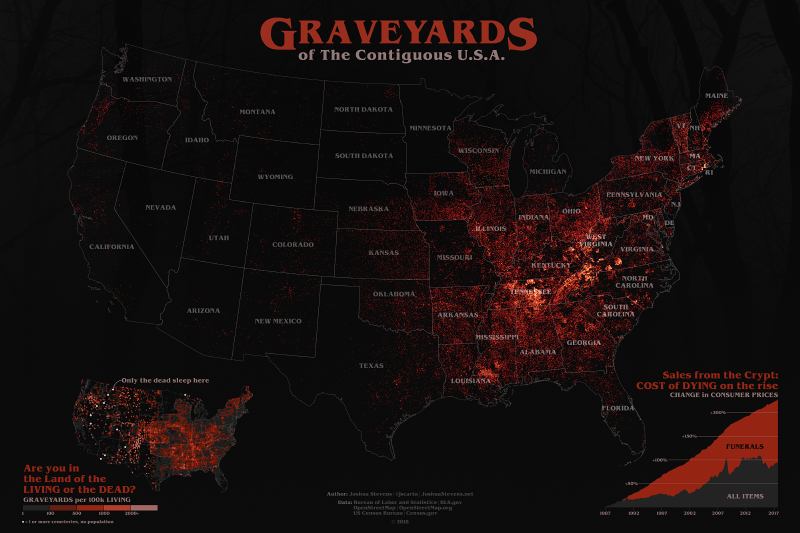
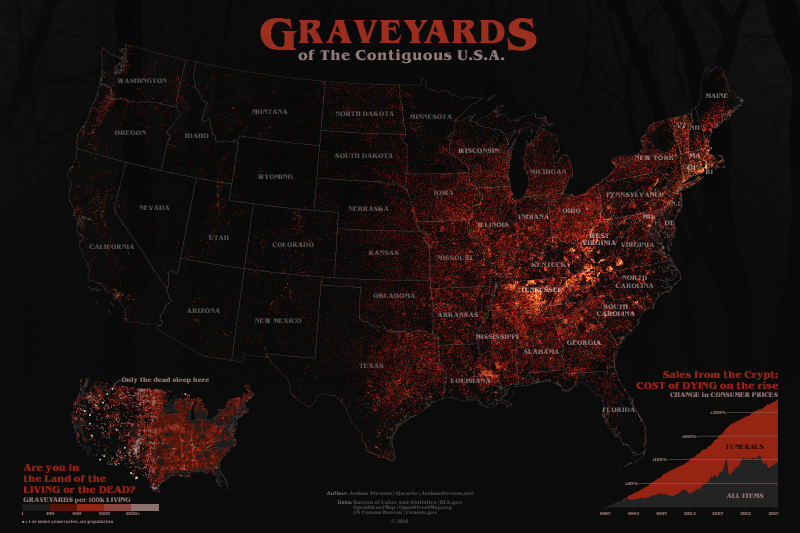
Updated map data

diff --git a/blog/graveyards-of-the-contiguous-usa/index.html b/blog/graveyards-of-the-contiguous-usa/index.html
@@ -25,9 +25,9 @@
     <meta name="twitter:site" content="@jscarto" />
     <meta name="twitter:title" content="Joshua Stevens - Graveyards of The Contiguous USA" />
 
-    <meta name="twitter:image" content="http://www.joshuastevens.net/images/graveyards_card.jpg" />
+    <meta name="twitter:image" content="http://www.joshuastevens.net/images/graveyards_card.png" />
     <meta name="twitter:description" content="Home of the grave: explore the geographic distribution of America’s graveyards."/>
-    <meta property="og:image" content="http://www.joshuastevens.net/images/graveyards_card.jpg" />
+    <meta property="og:image" content="http://www.joshuastevens.net/images/graveyards_card.png" />
     <meta name="description" content="Home of the grave: explore the geographic distribution of America’s graveyards."/>
      <meta property="og:description" content="Home of the grave: explore the geographic distribution of America’s graveyards."/>
   </head>
@@ -88,11 +88,12 @@
 
 <h2 id="the-geography-of-the-dead">The Geography of The Dead</h2>
 
-<p>Using data from <a href="https://www.openstreetmap.org">OpenStreetMap</a>, I compiled an inventory of 93,236 graveyards and cemeteries in the contiguous United States. Some were, to my surprise, even designated as pet cemeteries.</p>
+<p>Using data from <a href="https://www.openstreetmap.org">OpenStreetMap</a>, I compiled an inventory of 144,847 graveyards and cemeteries in the contiguous United States. Some were, to my surprise, even designated as pet cemeteries.</p>
 
 <div class="fullImage">
 <img src="/images/graveyards_of_usa.png" />
-<p><strong><a href="/images/graveyards_of_usa_lrg.png">View larger.</a></strong> From the sparse graves of Nevada to a Tennessee peppered with cemetery plots, America is home to more than 93,000 graveyards and cemeteries.</p>
+<p><strong><a href="/images/graveyards_of_usa_lrg.png">View larger.</a></strong> From the sparse graves of Nevada to a Tennessee peppered with cemetery plots, America is home to more than 144,000 graveyards and cemeteries. <em>Note: an earlier version of the map underrepresented graveyards in the midwest. This has been corrected.</em>
+</p>
 </div>
 
 <p>Right away I was struck by the geography. The pattern, however, makes a great deal of sense in the context of American history. Some of the deadliest battles of the Revolutionary and Civil Wars took place in Georgia, Kentucky, Mississippi, New York, South Carolina, Tennessee, and Virginia.</p>
